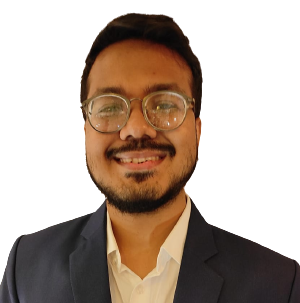
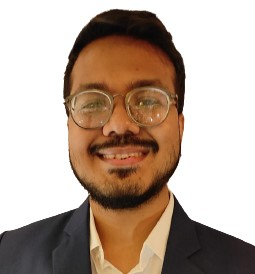
resize sidebar

Changed region(s): [[0.0, 0.0292, 1.0, 1.0], [0.1647, 0.8175, 0.2471, 0.9635], [0.4941, 0.1168, 0.5216, 0.146]]

diff --git a/assets/css/style.css b/assets/css/style.css
@@ -95,12 +95,12 @@ h2 {
 }
 
 #header .profile img {
-  margin: 15px auto;
+  margin: 12px auto;
   display: block;
-  width: 250px;
+  width: 150px;
 }
 .profile-text{
-  transform: translateX(20px);
+  transform: translateX(55px);
 }
 #header .profile h1 {
   font-size: 24px;
@@ -116,7 +116,8 @@ h2 {
 #header .profile h1 a:hover {
   color: #fff;
   text-decoration: none;
-  font-size: 60px;
+  font-size: 40px;
+  /* margin-top: -50px; */
 }
 
 #header .profile .social-links a {
@@ -186,7 +187,7 @@ h2 {
 --------------------------------------------------------------*/
 /* Desktop Navigation */
 .nav-menu {
-  padding-top: 30px;
+  padding-top: 10px;
 }
 #header .profile p{
   color: #0ED068 !important;
@@ -206,8 +207,8 @@ h2 {
   display: flex;
   align-items: center;
   color: #dddddd;
-  padding: 12px 15px;
-  margin-bottom: 8px;
+  padding: 12px 10px;
+  margin-bottom: 5px;
   transition: 0.3s;
   font-size: 15px;
 }

diff --git a/index.html b/index.html
@@ -57,7 +57,7 @@
         <div class="profile-text"> 
           <!-- <button style="background-color:yellow; margin-left: 11%; " class="btn btn-warning" type="submit" onclick="window.open('assets/files/ResumeFinal.pdf')">Download<strong> Resume</strong></button> -->
         
-          <h1 style="margin-top:45px;text-align: left !important;" class="text-light"><a href="index.html" style="color: white !important;"><strong>Shamit</strong> Ahmed</a></h1>
+          <h1 style="margin-top:0px;text-align: left !important;" class="text-light"><a href="index.html" style="color: white !important;"><strong>Shamit</strong> Ahmed</a></h1>
         <!-- <p style="text-align: left;margin-bottom: 0px !important; margin-top: 0.86rem !important;">Senior Game Developer,</p>
         <a href="https://playense.com/">Playense</a> -->
       </div>
